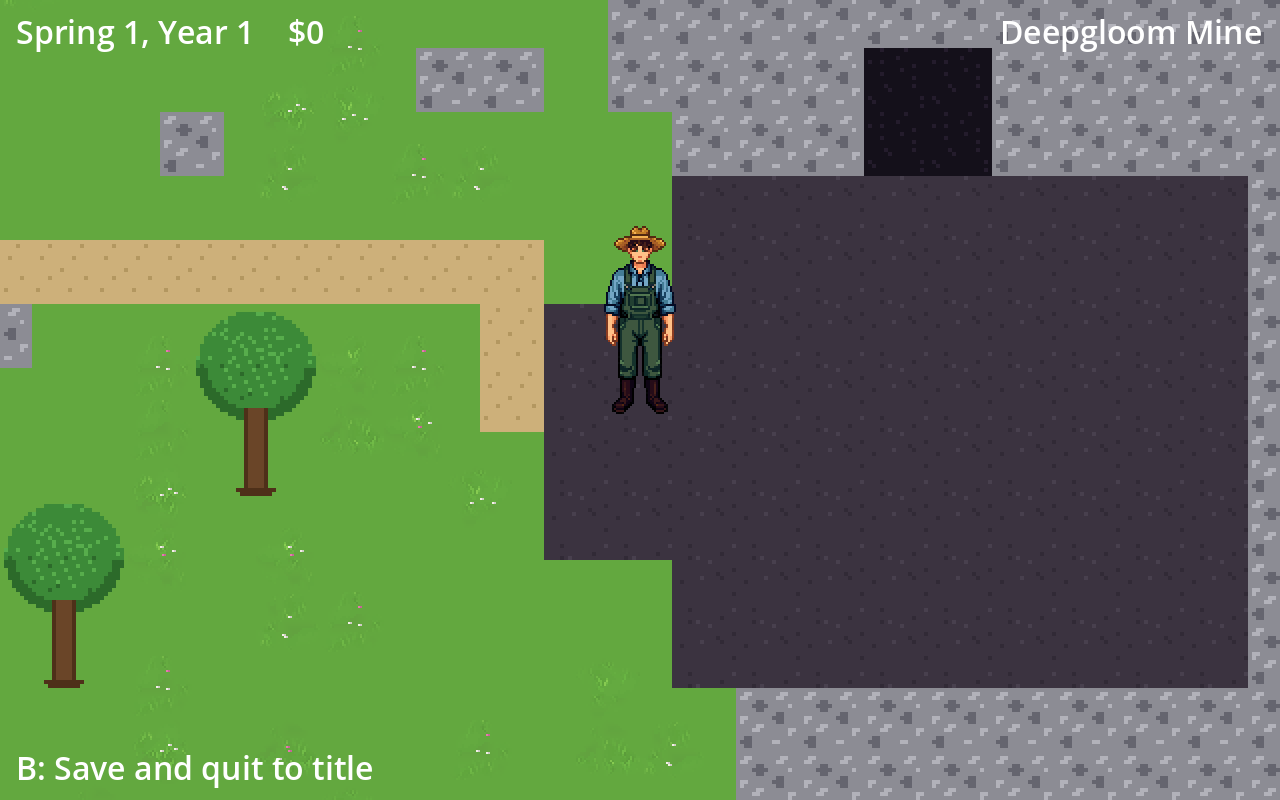
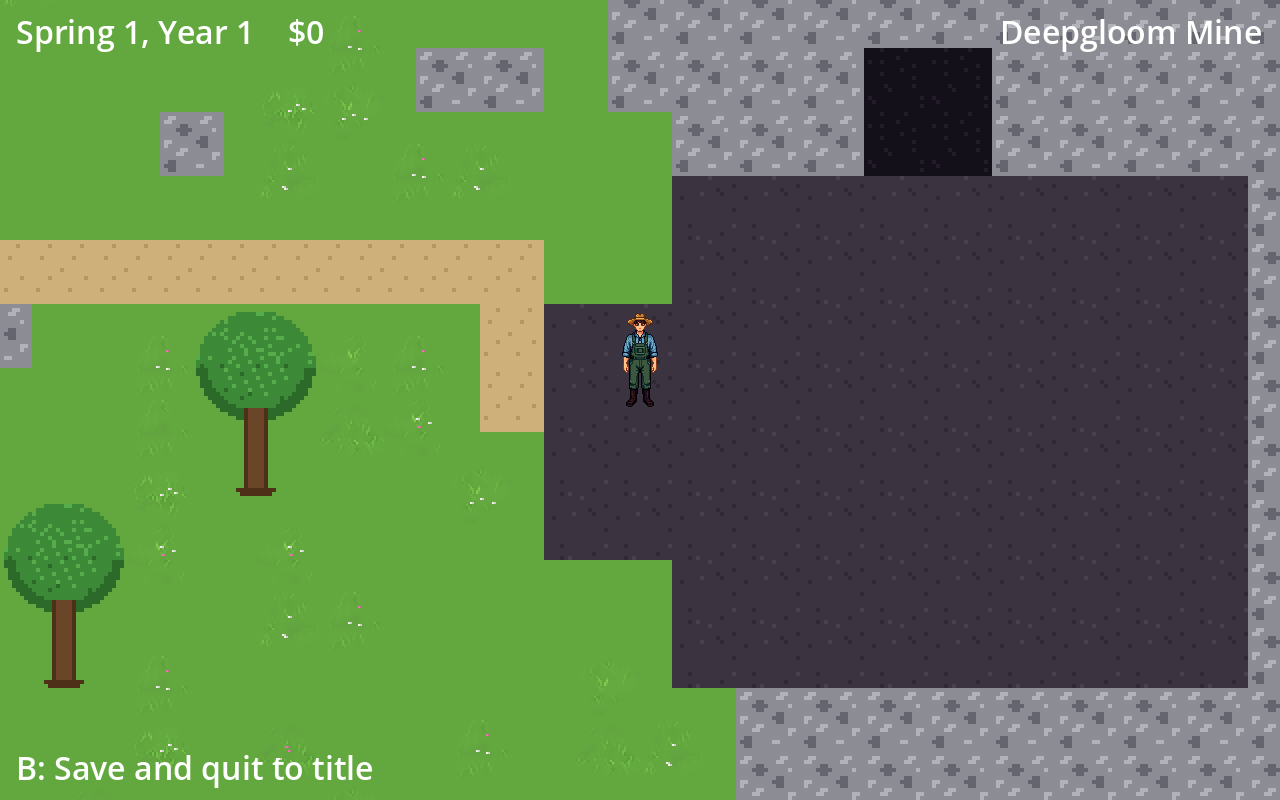
Farmer drawn at half scale, one and a half tiles tall
Claude-Session: https://claude.ai/code/session_01HGWnwzRxad1P2yUuQJXkVi

Changed region(s): [[0.4688, 0.2812, 0.5312, 0.5312]]

diff --git a/CLAUDE.md b/CLAUDE.md
@@ -14,7 +14,7 @@ The user does not understand or read code, documentation, commits, or comments. 
 - `scenes/<system>/` and `scripts/<system>/` mirror each other; one system per folder, scenes small and single-purpose. Check `scenes/` and `data/` before inventing anything.
 - `data/` holds crops, maps, dialogue, and schedules as JSON or text.
 - `assets/` holds PNGs and Godot resources. Save data goes to `user://`; never write to the repo at runtime.
-- Screen is 640×400, integer-scaled ×2 to the Deck's 1280×800. Tiles are 32 px and the player is a 56×96 frame: 3 tiles tall, 20×12 tiles on screen, camera follows.
+- Screen is 640×400, integer-scaled ×2 to the Deck's 1280×800. Tiles are 32 px; the player is a 56×96 frame drawn at half scale, so 28×48 on screen, one and a half tiles tall. 20×12 tiles on screen, camera follows.
 
 ## Art
 
